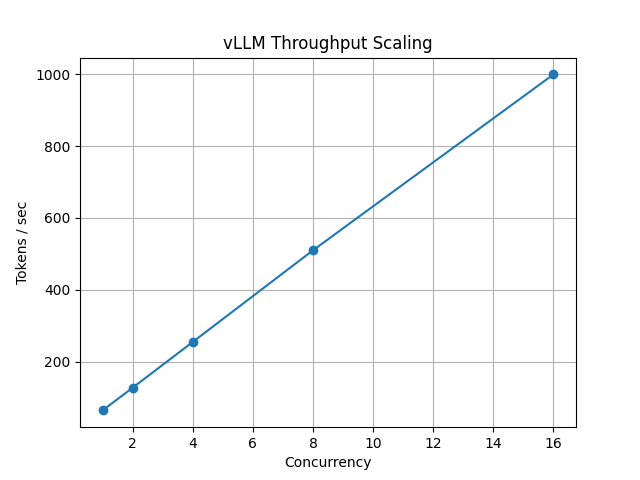
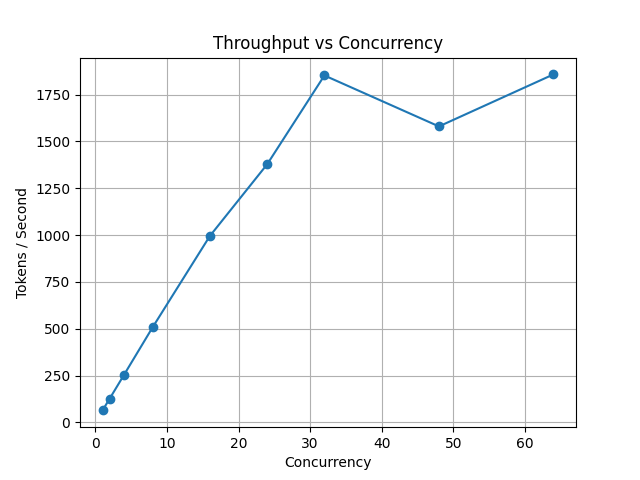
Add run_2 benchmark results and latency plots

diff --git a/bench.py b/bench.py
@@ -1,46 +1,70 @@
-import asyncio, json, time, statistics, argparse
+import asyncio
+import json
+import time
+import statistics
+import argparse
+
 import requests
 import pandas as pd
+
 
 def call_once(base_url: str, model: str, prompt: str, max_tokens: int):
     t0 = time.time()
     r = requests.post(
         f"{base_url}/v1/completions",
         headers={"Content-Type": "application/json"},
-        json={"model": model, "prompt": prompt, "max_tokens": max_tokens, "temperature": 0},
+        json={
+            "model": model,
+            "prompt": prompt,
+            "max_tokens": max_tokens,
+            "temperature": 0,
+        },
         timeout=600,
     )
     r.raise_for_status()
     t1 = time.time()
+
     data = r.json()
     usage = data.get("usage", {})
     out_tokens = usage.get("completion_tokens", 0) or 0
     return (t1 - t0), out_tokens
 
-async def run_concurrency(base_url: str, model: str, prompt: str, max_tokens: int, concurrency: int, requests_per_worker: int):
+
+async def run_concurrency(
+    base_url: str,
+    model: str,
+    prompt: str,
+    max_tokens: int,
+    concurrency: int,
+    requests_per_worker: int,
+):
     loop = asyncio.get_event_loop()
 
     async def worker():
         latencies, out_toks = [], []
         for _ in range(requests_per_worker):
-            dt, ot = await loop.run_in_executor(None, call_once, base_url, model, prompt, max_tokens)
+            dt, ot = await loop.run_in_executor(
+                None, call_once, base_url, model, prompt, max_tokens
+            )
             latencies.append(dt)
             out_toks.append(ot)
         return latencies, out_toks
 
+    t0 = time.time()
     tasks = [asyncio.create_task(worker()) for _ in range(concurrency)]
     results = await asyncio.gather(*tasks)
+    t1 = time.time()
 
     lat = [x for l, _ in results for x in l]
     toks = [x for _, t in results for x in t]
     total_out = sum(toks)
+    elapsed = t1 - t0
 
-    # Approx wall time: average per-worker total time
-    per_worker_time = [sum(l) for l, _ in results]
-    wall = statistics.mean(per_worker_time) if per_worker_time else 0.0
+    tokens_per_sec = (total_out / elapsed) if elapsed > 0 else 0.0
+    requests_per_sec = (len(lat) / elapsed) if elapsed > 0 else 0.0
 
-    tps = (total_out / wall) if wall > 0 else 0.0
-    return lat, toks, tps
+    return lat, toks, elapsed, requests_per_sec, tokens_per_sec
+
 
 def pct(xs, p):
     xs = sorted(xs)
@@ -52,6 +76,7 @@ def pct(xs, p):
     if f == c:
         return xs[f]
     return xs[f] + (xs[c] - xs[f]) * (k - f)
+
 
 def main():
     ap = argparse.ArgumentParser()
@@ -68,24 +93,36 @@ def main():
     prompt = prompts[args.prompt_idx]
 
     rows = []
-    for c in [int(x) for x in args.concurrency.split(",")]:
-        lat, toks, tps = asyncio.run(
-            run_concurrency(args.base_url, args.model, prompt, args.max_tokens, c, args.requests_per_worker)
+    for c in [int(x.strip()) for x in args.concurrency.split(",") if x.strip()]:
+        lat, toks, elapsed, rps, tps = asyncio.run(
+            run_concurrency(
+                args.base_url,
+                args.model,
+                prompt,
+                args.max_tokens,
+                c,
+                args.requests_per_worker,
+            )
         )
+
         row = {
             "concurrency": c,
             "n_requests": len(lat),
+            "elapsed_s": elapsed,
+            "req_per_sec": rps,
+            "out_tokens_total": sum(toks),
+            "tokens_per_sec": tps,
             "lat_p50_s": pct(lat, 50),
             "lat_p95_s": pct(lat, 95),
+            "lat_p99_s": pct(lat, 99),
             "lat_mean_s": statistics.mean(lat) if lat else None,
-            "out_tokens_total": sum(toks),
-            "tokens_per_sec_est": tps,
         }
         rows.append(row)
         print(row)
 
     pd.DataFrame(rows).to_csv(args.out, index=False)
     print(f"\nWrote: {args.out}")
+
 
 if __name__ == "__main__":
     main()

diff --git a/plot_results.py b/plot_results.py
@@ -1,15 +1,39 @@
 import pandas as pd
 import matplotlib.pyplot as plt
 
-df = pd.read_csv("results/run_1.csv")
+# Load the latest benchmark run
+df = pd.read_csv("results/run_2.csv")
 
+# Sort by concurrency in case the CSV isn't ordered
+df = df.sort_values("concurrency")
+
+# -------------------------
+# Throughput Plot
+# -------------------------
 plt.figure()
-plt.plot(df["concurrency"], df["tokens_per_sec_est"], marker="o")
+plt.plot(df["concurrency"], df["tokens_per_sec"], marker="o")
 plt.xlabel("Concurrency")
-plt.ylabel("Tokens / sec")
-plt.title("vLLM Throughput Scaling")
-plt.grid()
-
+plt.ylabel("Tokens / Second")
+plt.title("Throughput vs Concurrency")
+plt.grid(True)
 plt.savefig("results/throughput.png")
 
-print("Saved results/throughput.png")
+# -------------------------
+# Latency Percentiles Plot
+# -------------------------
+plt.figure()
+plt.plot(df["concurrency"], df["lat_p50_s"], marker="o", label="p50")
+plt.plot(df["concurrency"], df["lat_p95_s"], marker="o", label="p95")
+plt.plot(df["concurrency"], df["lat_p99_s"], marker="o", label="p99")
+
+plt.xlabel("Concurrency")
+plt.ylabel("Latency (seconds)")
+plt.title("Latency Percentiles vs Concurrency")
+plt.legend()
+plt.grid(True)
+
+plt.savefig("results/latency_percentiles.png")
+
+print("Saved plots:")
+print("results/throughput.png")
+print("results/latency_percentiles.png")

diff --git a/README.md b/README.md
@@ -1,58 +1,84 @@
-# LLM Inference Benchmark Harness
-
-A lightweight benchmarking harness for measuring **LLM inference throughput and latency** using an OpenAI-compatible endpoint (e.g., vLLM).
-
-This project helps evaluate GPU inference performance across different concurrency levels.
-
-## Features
-
-- Measures request latency
-- Estimates tokens/sec throughput
-- Supports configurable concurrency
-- Outputs results to CSV
-- Optional visualization of scaling curves
-
-## Requirements
-
-- Python 3.10+
-- vLLM running locally or remotely
-- OpenAI-compatible API endpoint
-
-Example server:
-
-python -m vllm.entrypoints.openai.api_server \
-  --model Qwen/Qwen2.5-7B-Instruct \
-  --host 0.0.0.0 \
-  --port 8000
-
-## Install
-
-python -m venv .venv
-source .venv/bin/activate
-pip install -r requirements.txt
-
-## Run Benchmark
-
-python bench.py \
-  --model Qwen/Qwen2.5-7B-Instruct \
-  --concurrency 1,2,4,8,16 \
-  --max-tokens 256 \
-  --requests-per-worker 3 \
-  --out results/run_1.csv
-
-## Plot Results
-
-python plot_results.py
-
-Outputs
-
-results/run_1.csv  
+LLM Inference Benchmark Harness
+A lightweight Python harness for benchmarking LLM inference servers under increasing concurrency.
+The goal is to measure throughput scaling and latency behavior (p50 / p95 / p99) as load increases and identify the saturation point of an inference system.
+This harness targets OpenAI-compatible endpoints such as:
+vLLM
+Triton Inference Server
+TensorRT-LLM
+OpenAI API-compatible gateways
+What This Measures
+For each concurrency level the harness records:
+number of requests
+elapsed wall time
+requests/sec
+tokens/sec
+latency p50
+latency p95
+latency p99
+mean latency
+The benchmark sweeps across increasing concurrency levels and produces plots showing:
+Throughput scaling
+Tail latency growth
+These curves make it easy to identify when the system transitions from efficient utilization to queueing and saturation.
+Example Output
+Throughput vs Concurrency
+Shows how token throughput scales with increased load.
+Latency Percentiles vs Concurrency
+Shows the growth of tail latency as concurrency increases.
+Repository Structure
+Project files:
+bench.py
+plot_results.py
+prompts.json
+requirements.txt
+README.md
+Results folder:
+results/run_1.csv
+results/run_2.csv
 results/throughput.png
-
-## Future Work
-
-- Compare vLLM vs HuggingFace Transformers
-- Compare GPU types (4090 vs A100 vs H100)
-- Add latency percentiles
-- Add streaming benchmarks
-
+results/latency_percentiles.png
+Running the Benchmark
+Step 1 — Start an inference server
+Example using vLLM:
+python -m vllm.entrypoints.openai.api_server
+--model Qwen/Qwen2.5-7B-Instruct
+--host 0.0.0.0
+--port 8000
+This exposes an OpenAI-compatible endpoint at:
+http://localhost:8000/v1/completions
+Step 2 — Run the concurrency sweep
+python bench.py
+--model Qwen/Qwen2.5-7B-Instruct
+--concurrency 1,2,4,8,16,24,32,48,64
+--max-tokens 256
+--requests-per-worker 5
+--out results/run_2.csv
+This generates:
+results/run_2.csv
+Step 3 — Generate plots
+python plot_results.py
+This produces:
+results/throughput.png
+results/latency_percentiles.png
+Example Results
+A typical benchmark pattern looks like:
+Throughput scales nearly linearly at low concurrency
+Eventually throughput plateaus
+Tail latency (p95/p99) grows rapidly
+This indicates the system saturation region
+This harness makes it easy to visualize that transition.
+Why This Project Exists
+LLM inference performance is often reported using single-request latency, which hides how systems behave under real load.
+This harness focuses on concurrency-driven saturation testing, a more realistic method for evaluating:
+GPU utilization
+batching efficiency
+scheduler behavior
+inference server scalability
+Future Work
+Potential extensions include:
+Triton vs vLLM comparison
+TensorRT-LLM backend comparison
+token throughput normalization
+streaming token latency
+GPU utilization tracking
+License
